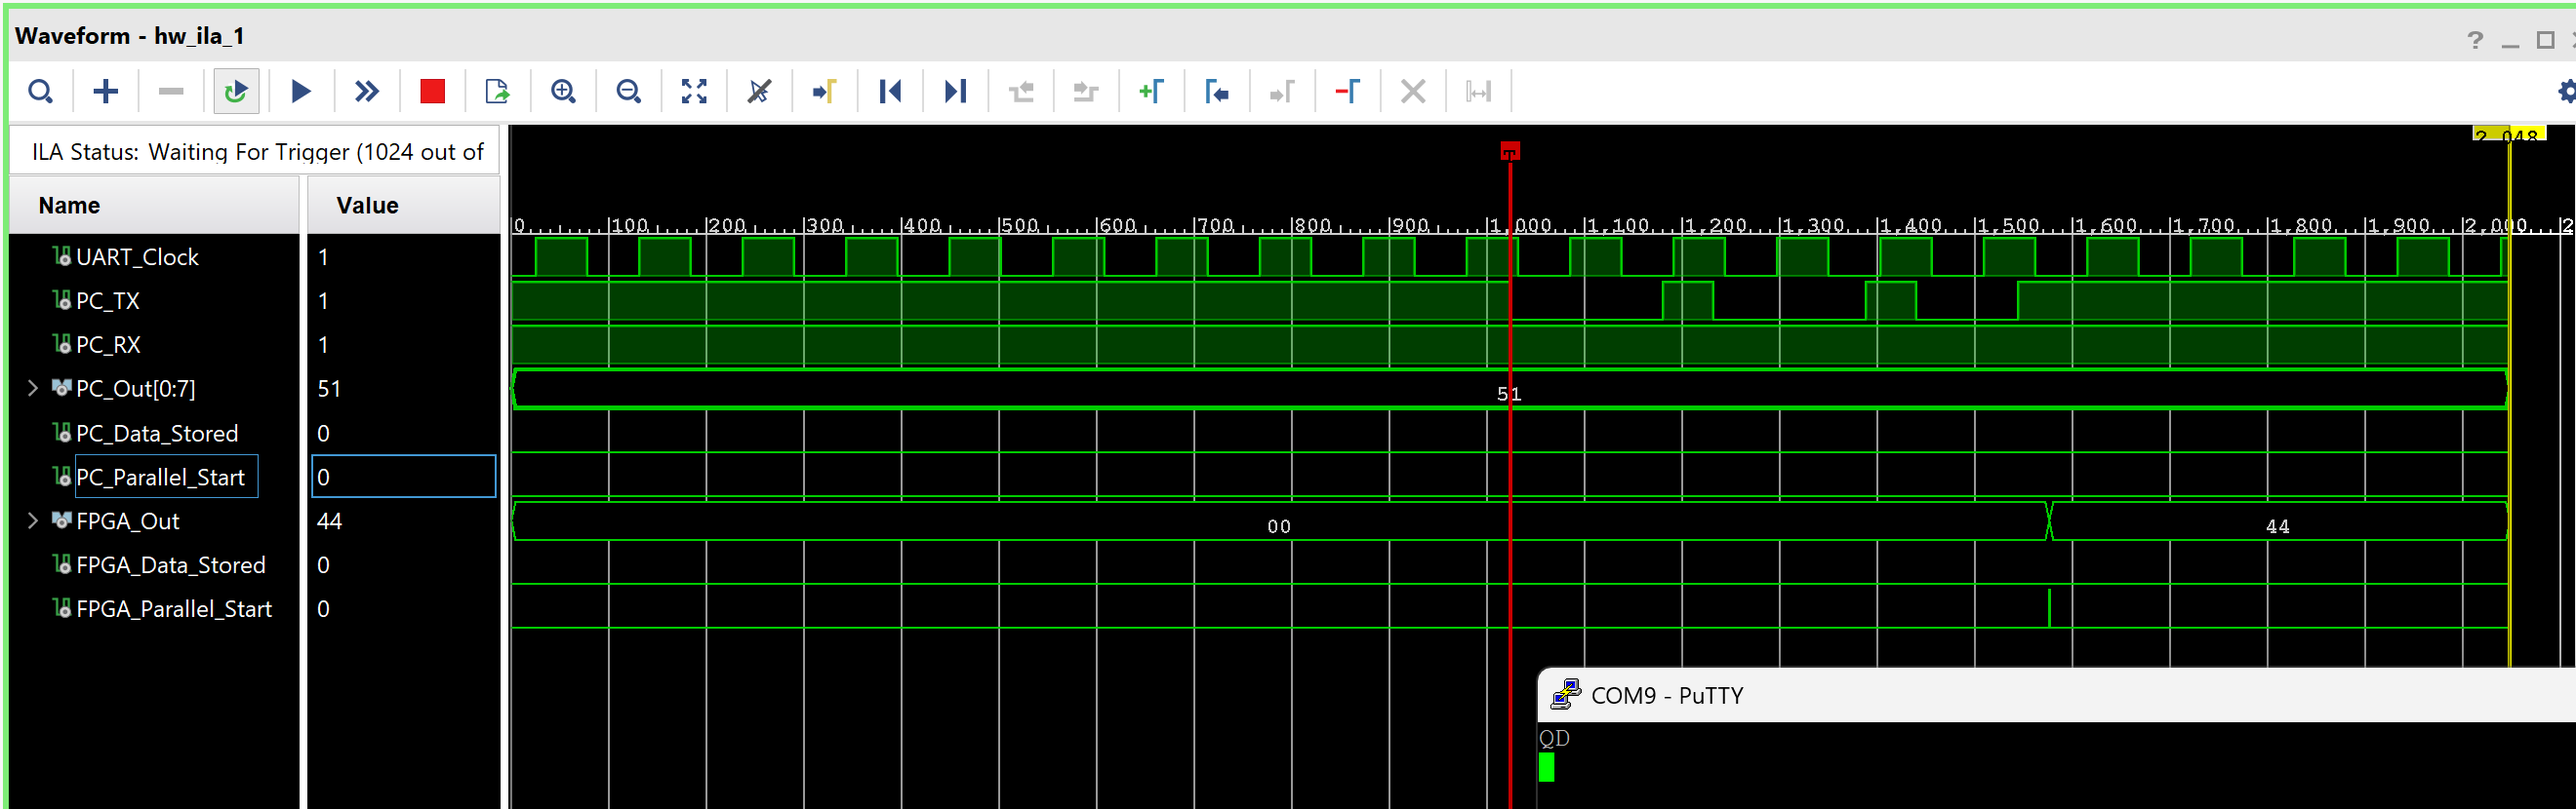
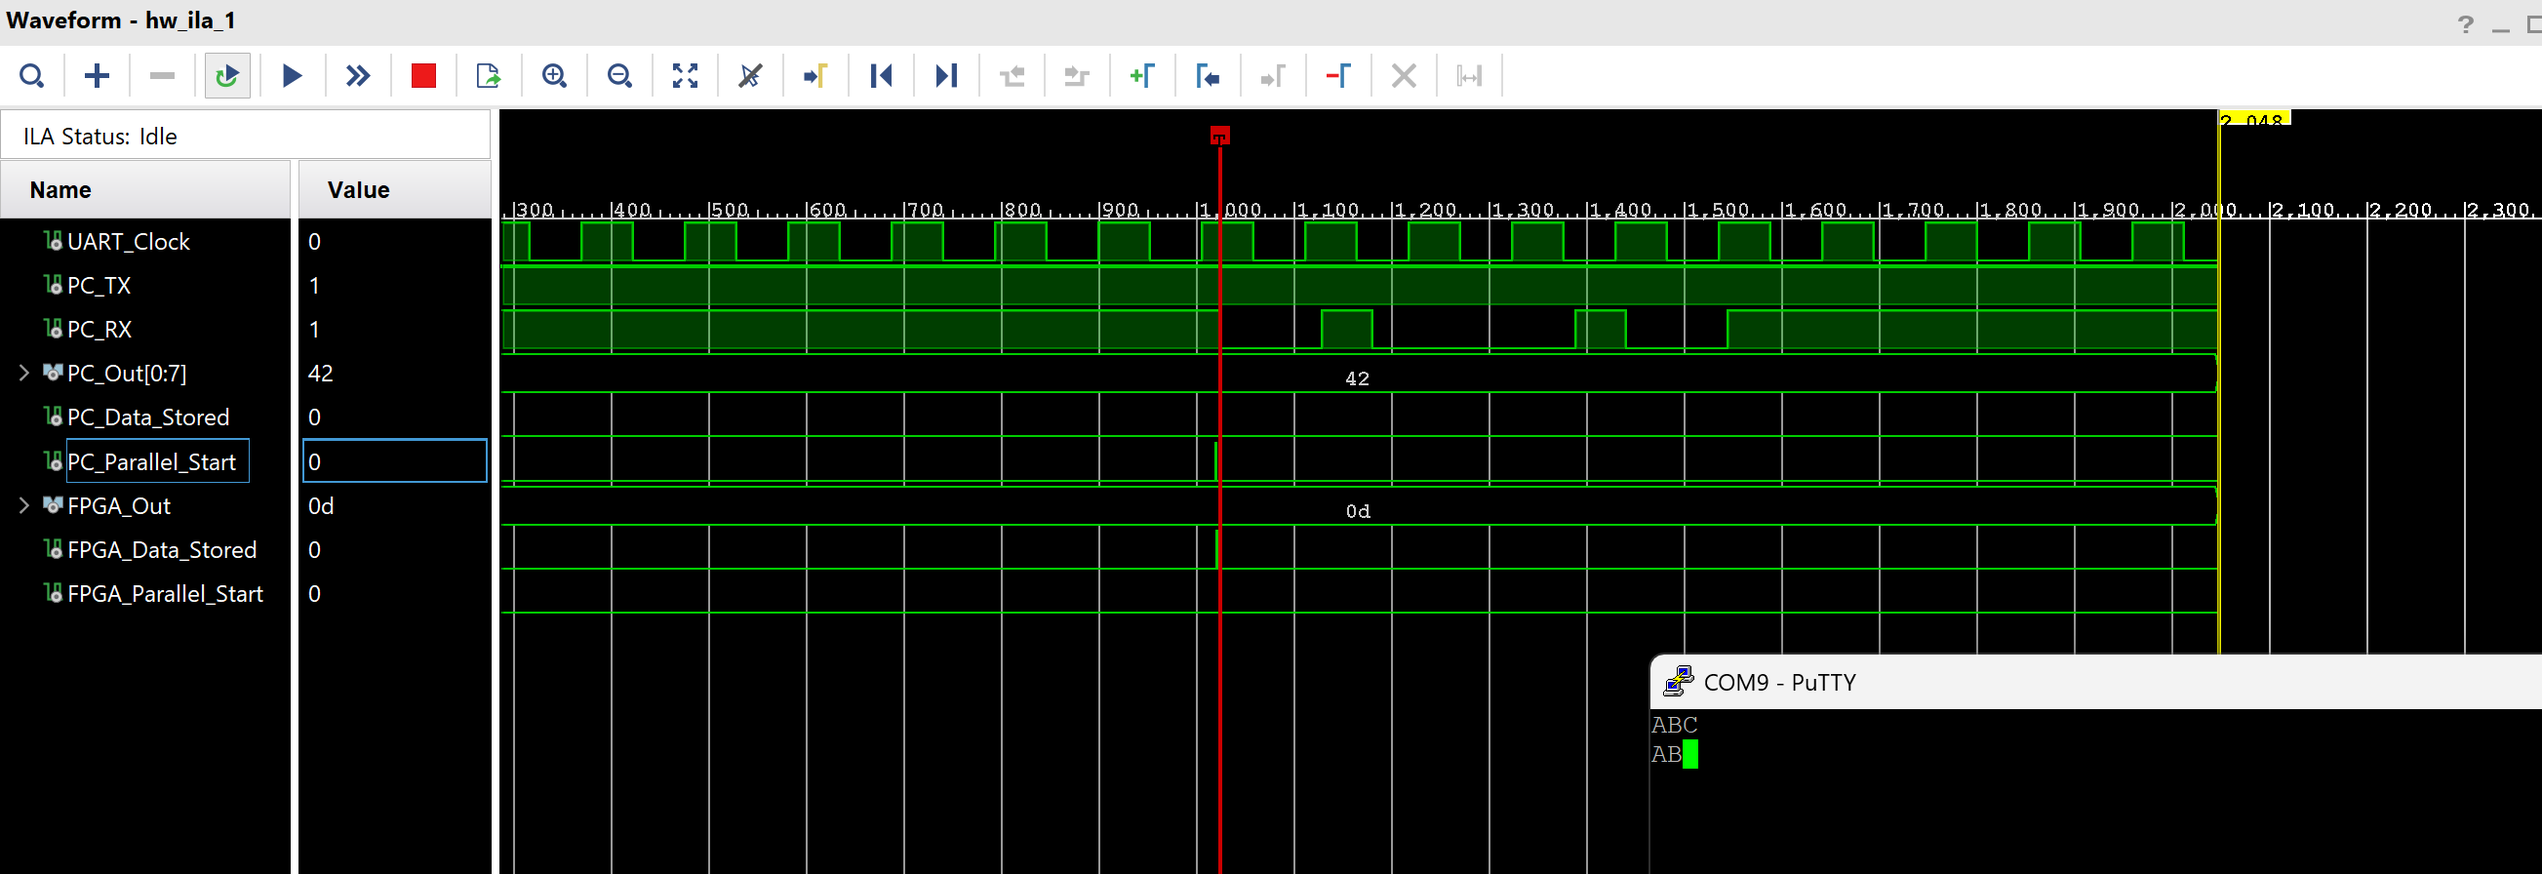
Added images to README

Changed region(s): [[0.0, 0.0, 1.0, 1.0]]

diff --git a/README.md b/README.md
@@ -56,15 +56,15 @@ Structure of the simulation testbench is shown in figure 2. Both the parallel tr
 In hardware implementation a VIO core plays the role of the parallel transceiver, and a PC serial terminal along with an onboard USB-UART bridge play the role of the UART transceiver.
 
 ## Example
-In figures 3 and 4 example waveforms are presented. In the first case, a letter "" (... hexadecimal) was sent from VIO to a PuTTY terminal, through the FPGA unit and a USB-UART bridge. In the second case, a letter "" (... hexadecimal) was sent the other way around.
+In figures 3 and 4 example waveforms are presented. In the first case, a letter "B" (0x42) was sent from VIO to a PuTTY terminal, through the FPGA unit and a USB-UART bridge (other visible letters were sent beforehand). In the second case, a string of letters "ABC" (0x41, 0x42, 0x43) was sent the other way around. Note that in the latter case the PC_Data_Stored handshake was omitted, as it was impractical to control it manually in VIO.
 
 <p align="center">
-<img src="" alt="..." width="550"><br>
+<img src="./Images/FPGA_To_PC.png" alt="./Images/FPGA_To_PC.png" width="550"><br>
 <em>Figure 3: Transfer from FPGA to PC.</em>
 </p>
 
 <p align="center">
-<img src="" alt="..." width="550"><br>
+<img src="./Images/PC_To_FPGA.png" alt="./Images/PC_To_FPGA.png" width="550"><br>
 <em>Figure 4: Transfer from PC to FPGA.</em>
 </p>
 
